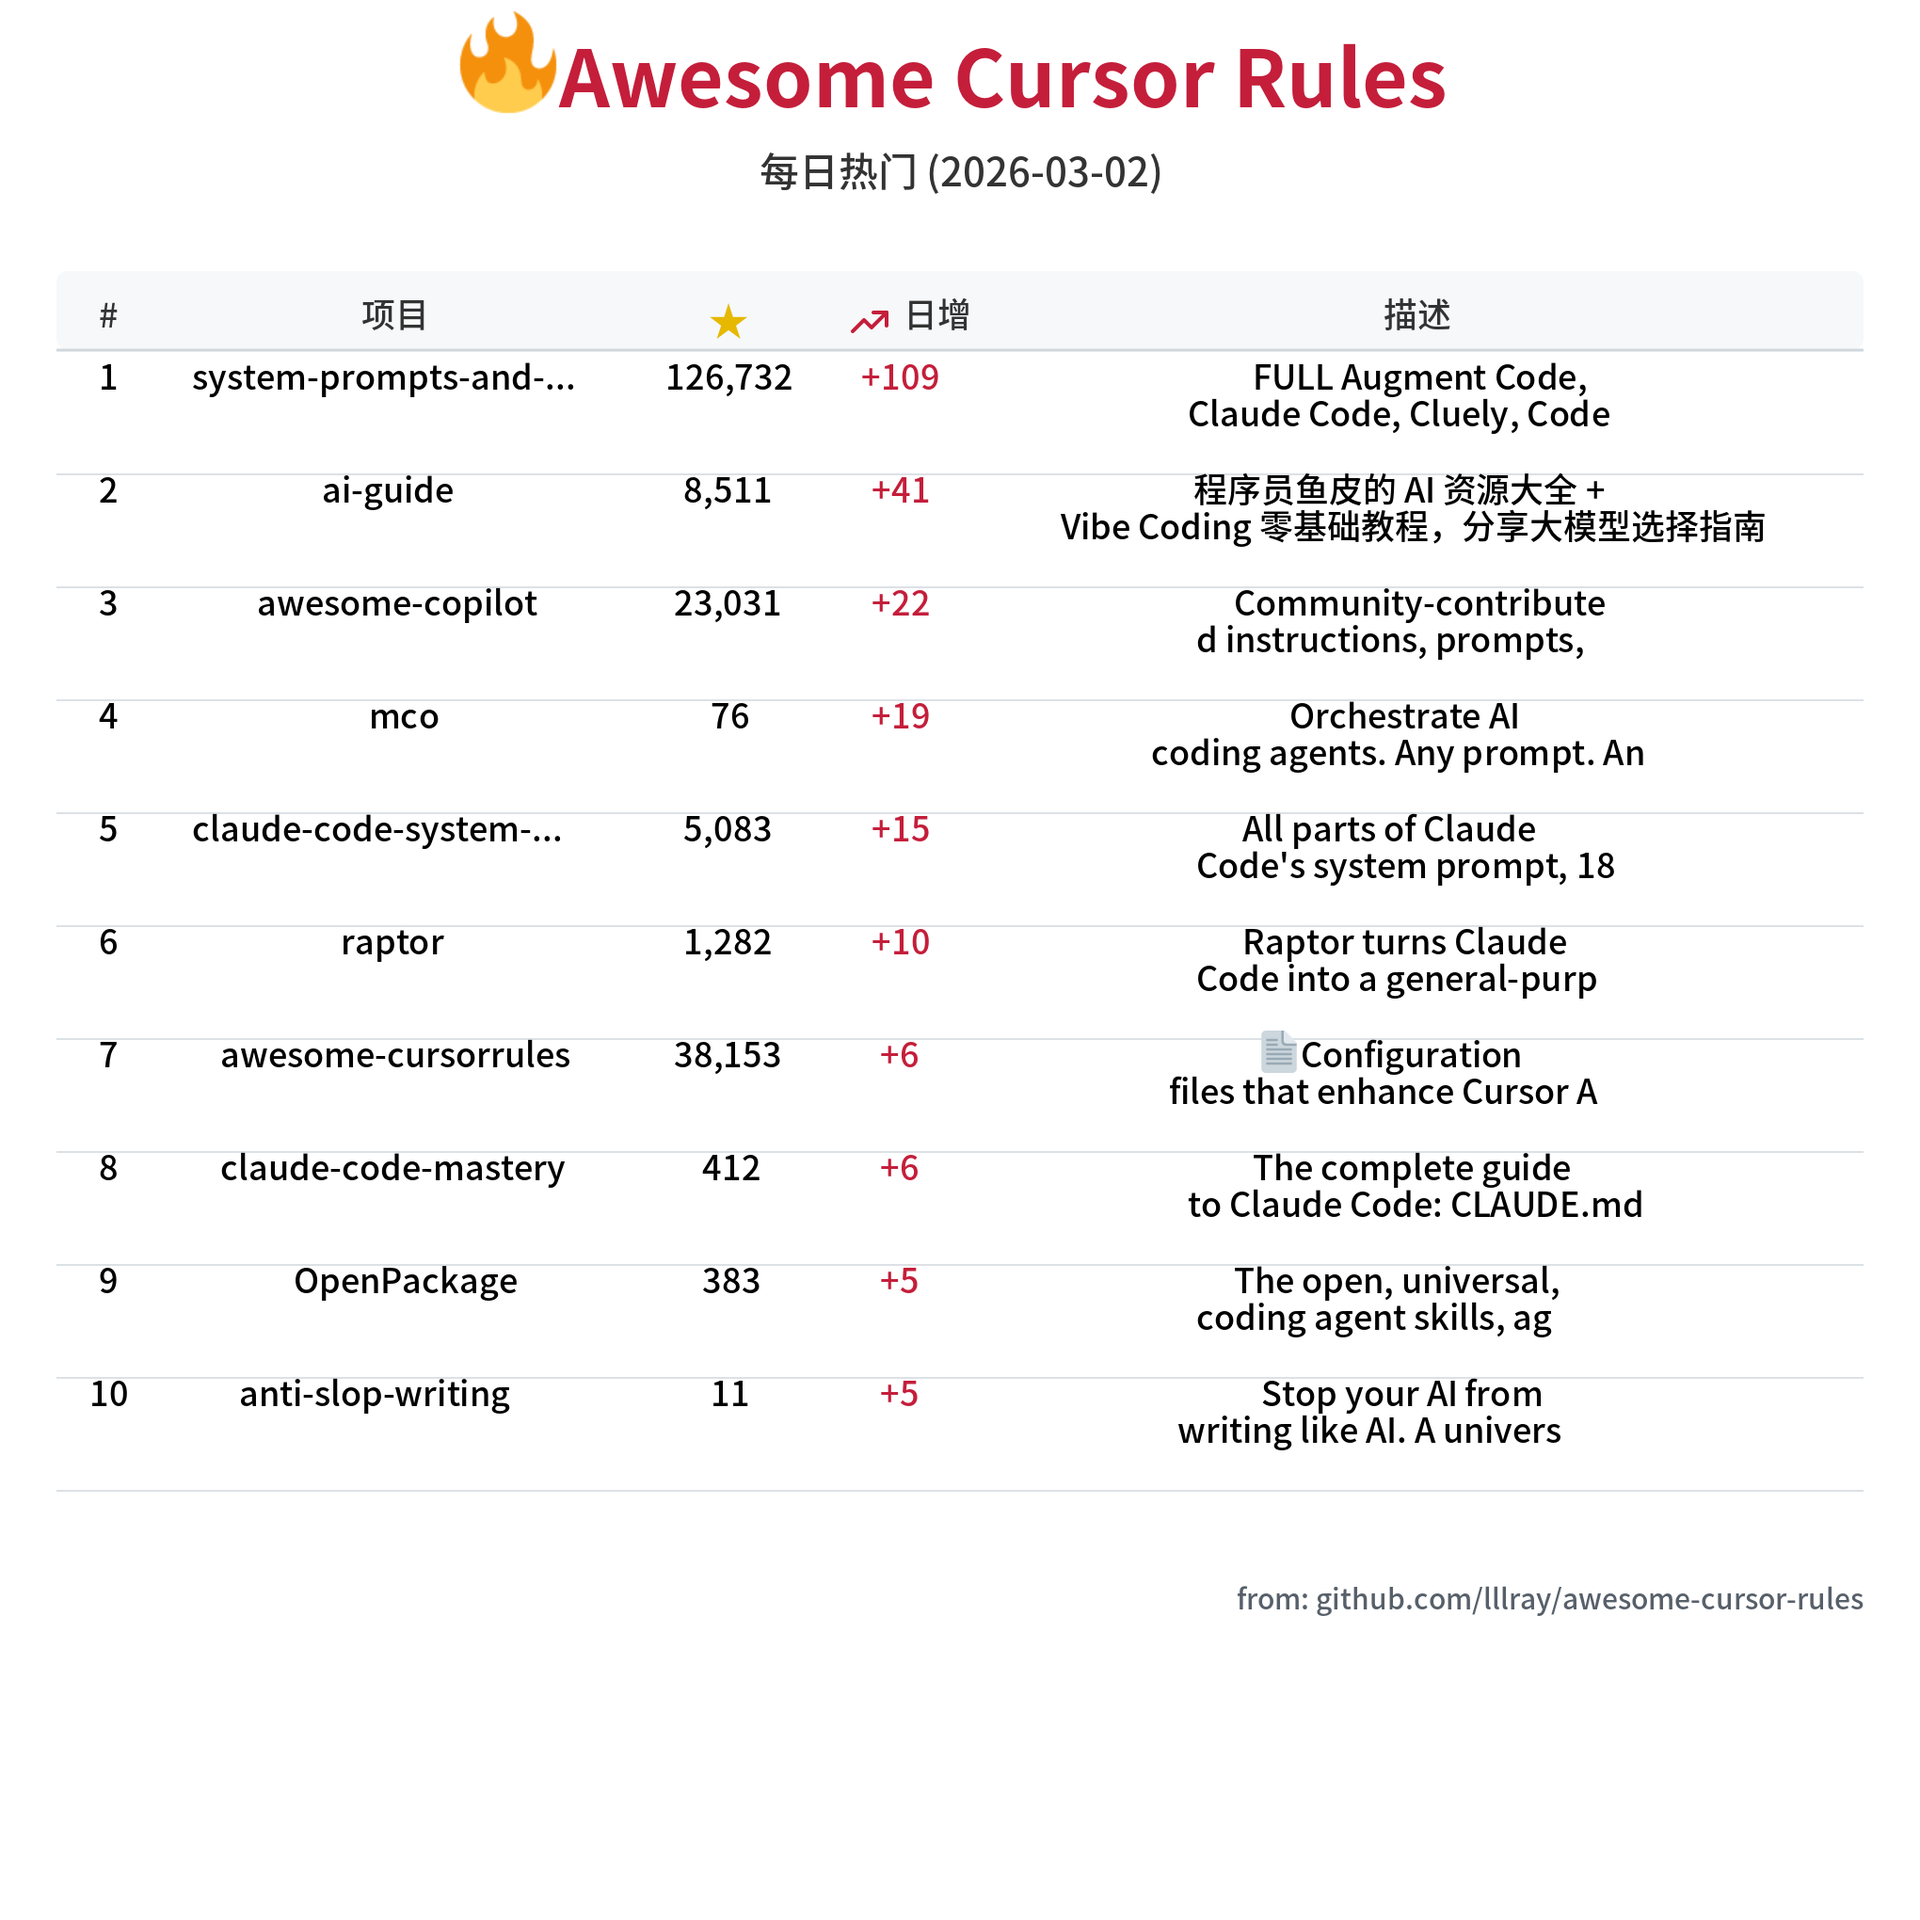
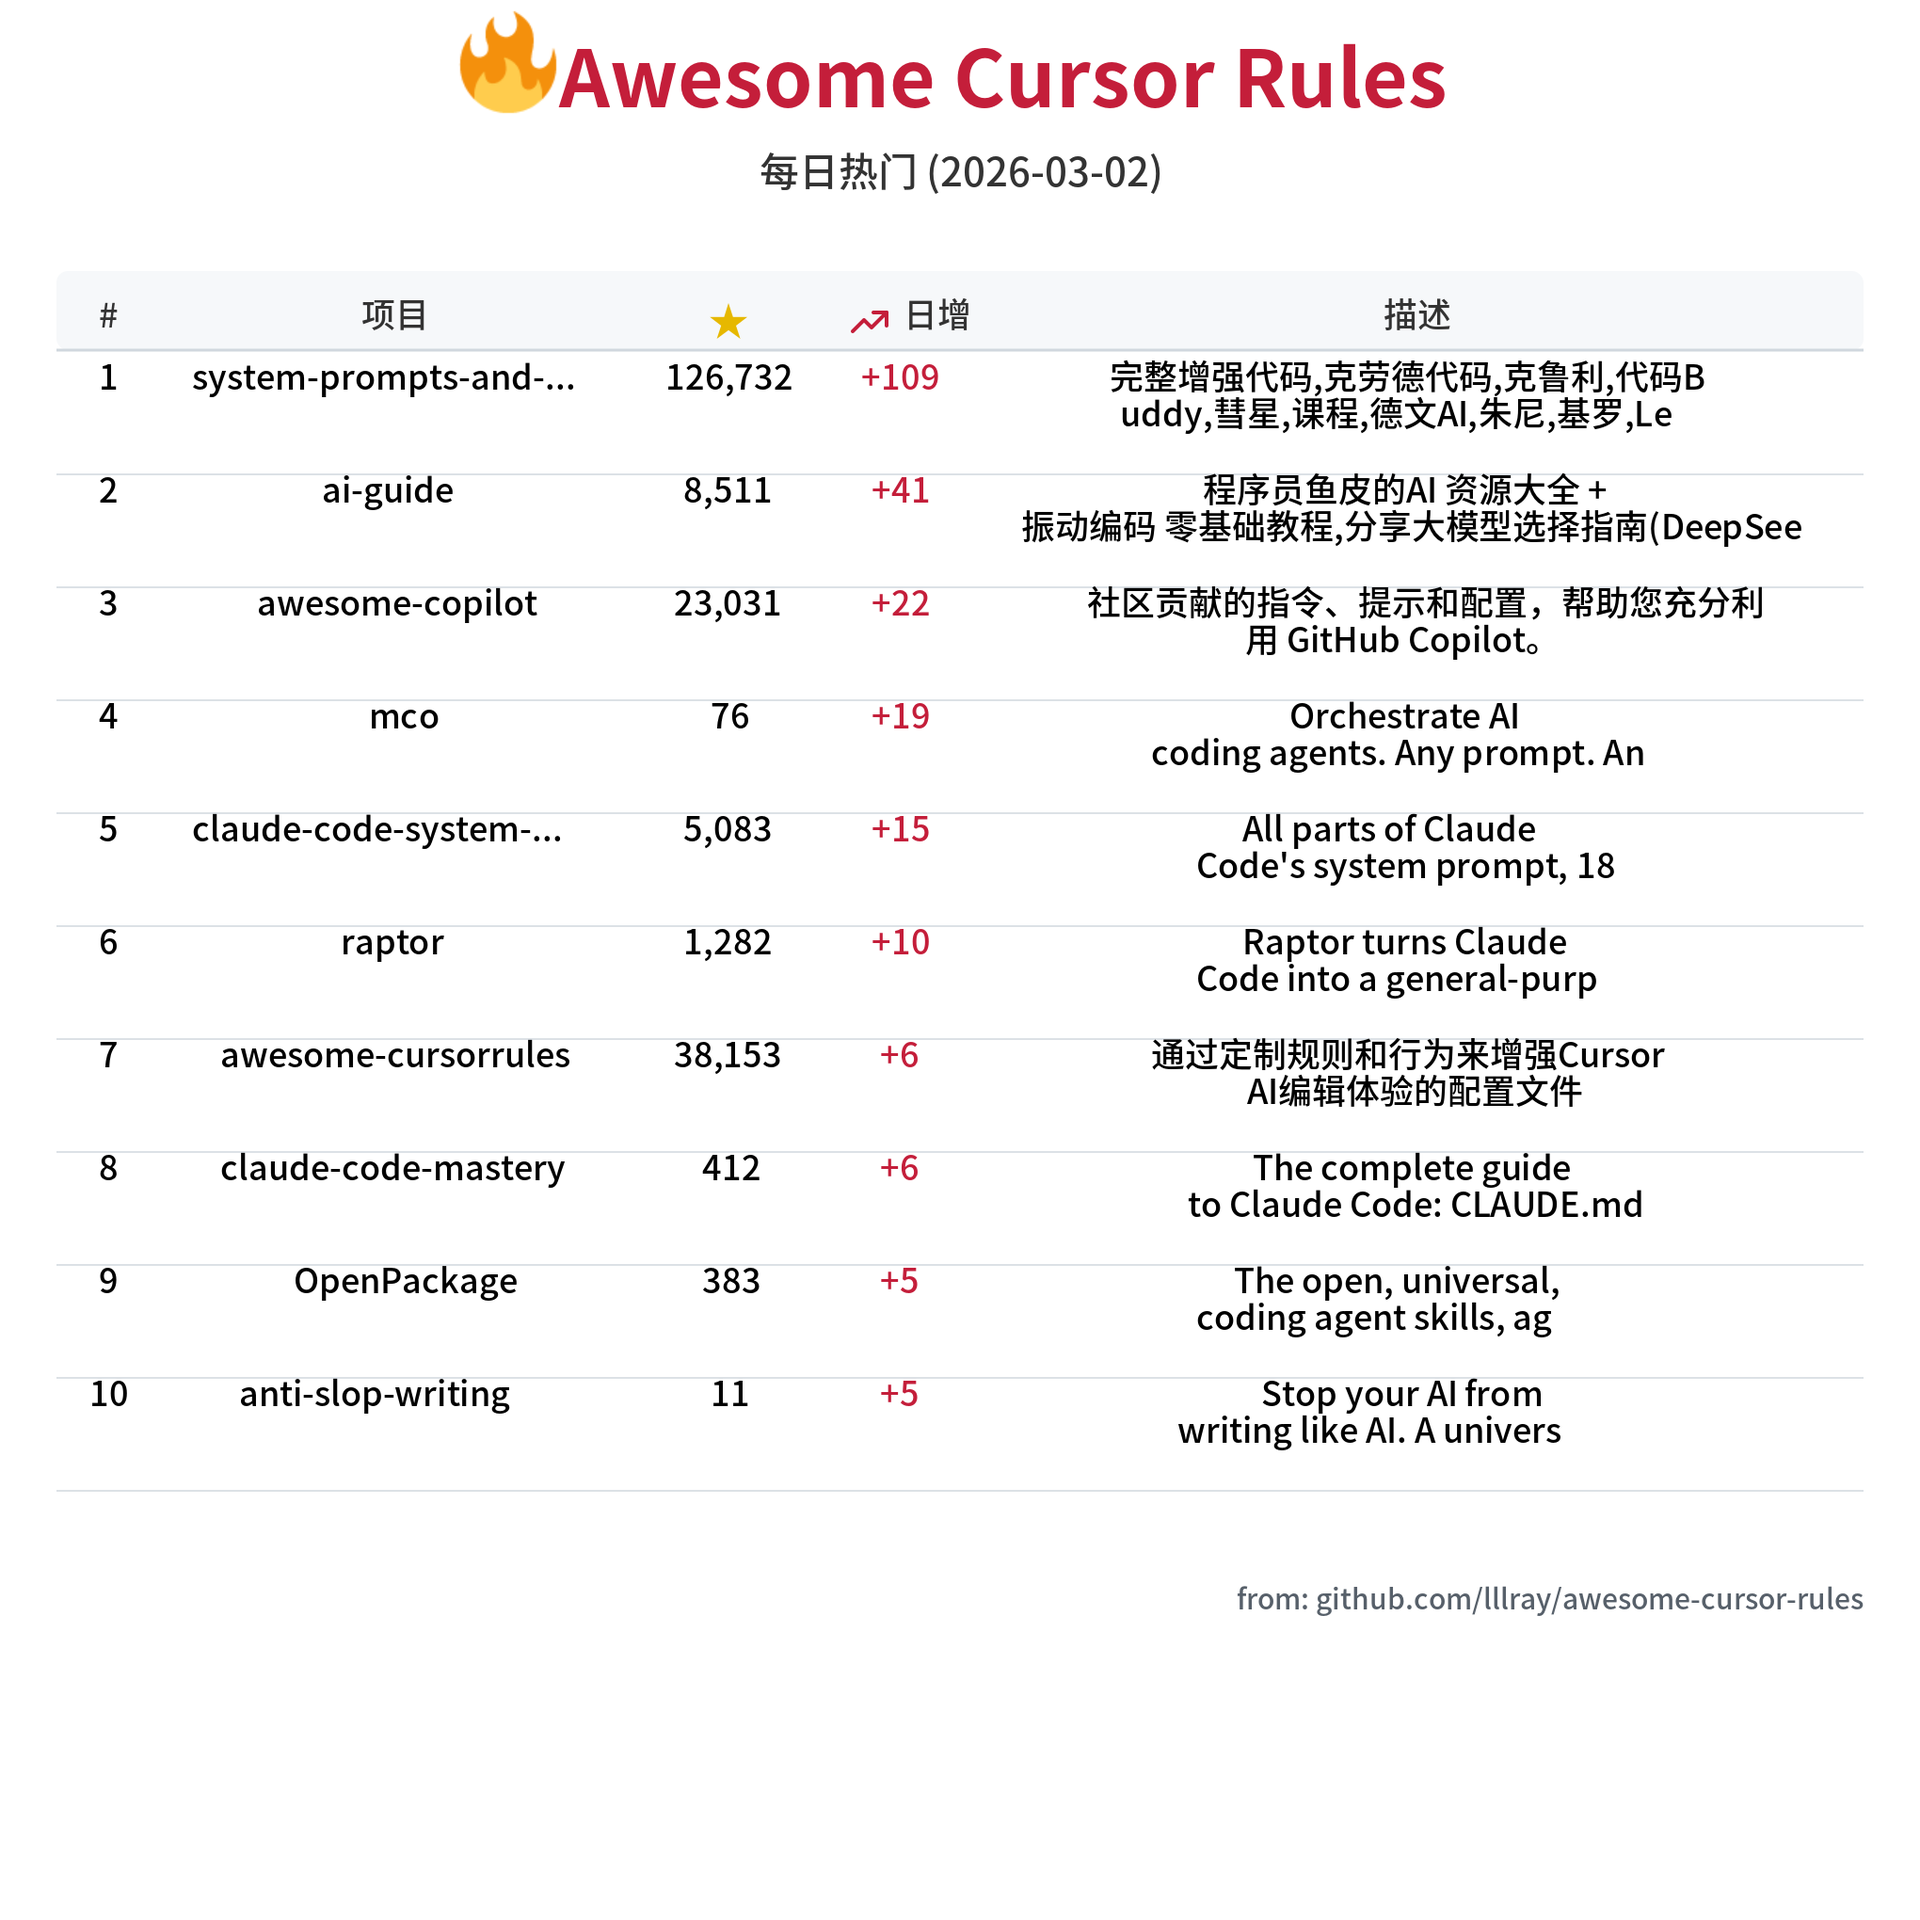
docs: 重新翻译每日热门描述 - 2026-03-02 20:57:07

Changed region(s): [[0.525, 0.1853, 0.9265, 0.3397], [0.5868, 0.525, 0.8647, 0.5868]]

diff --git a/README_ZH.md b/README_ZH.md
@@ -34,17 +34,17 @@
 
 | # | 项目 | ⭐ | 📈 日增 | 描述 |
 |:-:|------|---:|-------:|------|
-| 1 | [x1xhlol/system-prompts-and-models-of-ai-tools](https://github.com/x1xhlol/system-prompts-and-models-of-ai-tools) | 126,732 | +109 | FULL Augment Code, Claude Code, Cluely, CodeBuddy,... |
-| 2 | [liyupi/ai-guide](https://github.com/liyupi/ai-guide) | 8,511 | +41 | 程序员鱼皮的 AI 资源大全 + Vibe Coding 零基础教程，分享大模型选择指南（DeepS... |
-| 3 | [github/awesome-copilot](https://github.com/github/awesome-copilot) | 23,031 | +22 | Community-contributed instructions, prompts, and c... |
+| 1 | [x1xhlol/system-prompts-and-models-of-ai-tools](https://github.com/x1xhlol/system-prompts-and-models-of-ai-tools) | 126,732 | +109 | 完整增强代码,克劳德代码,克鲁利,代码Buddy,彗星,课程,德文AI,朱尼,基罗,Leap.new... |
+| 2 | [liyupi/ai-guide](https://github.com/liyupi/ai-guide) | 8,511 | +41 | 程序员鱼皮的AI 资源大全 + 振动编码 零基础教程,分享大模型选择指南(DeepSeek / GP... |
+| 3 | [github/awesome-copilot](https://github.com/github/awesome-copilot) | 23,031 | +22 | 社区贡献的指令、提示和配置，帮助您充分利用 GitHub Copilot。 |
 | 4 | [mco-org/mco](https://github.com/mco-org/mco) | 76 | +19 | Orchestrate AI coding agents. Any prompt. Any agen... |
 | 5 | [Piebald-AI/claude-code-system-prompts](https://github.com/Piebald-AI/claude-code-system-prompts) | 5,083 | +15 | All parts of Claude Code's system prompt, 18 built... |
 | 6 | [gadievron/raptor](https://github.com/gadievron/raptor) | 1,282 | +10 | Raptor turns Claude Code into a general-purpose AI... |
-| 7 | [PatrickJS/awesome-cursorrules](https://github.com/PatrickJS/awesome-cursorrules) | 38,153 | +6 | 📄  Configuration files that enhance Cursor AI edit... |
+| 7 | [PatrickJS/awesome-cursorrules](https://github.com/PatrickJS/awesome-cursorrules) | 38,153 | +6 |  通过定制规则和行为来增强Cursor AI编辑体验的配置文件 |
 | 8 | [TheDecipherist/claude-code-mastery](https://github.com/TheDecipherist/claude-code-mastery) | 412 | +6 | The complete guide to Claude Code: CLAUDE.md, hook... |
 | 9 | [enulus/OpenPackage](https://github.com/enulus/OpenPackage) | 383 | +5 | The open, universal, coding agent skills, agents, ... |
 | 10 | [adenaufal/anti-slop-writing](https://github.com/adenaufal/anti-slop-writing) | 11 | +5 | Stop your AI from writing like AI. A universal sys... |
-| 11 | [refly-ai/refly](https://github.com/refly-ai/refly) | 6,863 | +4 | The first open-source agent skills builder. Define... |
+| 11 | [refly-ai/refly](https://github.com/refly-ai/refly) | 6,863 | +4 | 建立Clawdbot · API 对于可爱的 · 机器人对于 Slack & Lark/Feishu... |
 | 12 | [Piebald-AI/tweakcc](https://github.com/Piebald-AI/tweakcc) | 1,195 | +4 | Customize Claude Code's system prompts, create cus... |
 | 13 | [alirezarezvani/ClaudeForge](https://github.com/alirezarezvani/ClaudeForge) | 266 | +4 | A CLAUDE.md Generator and Maintenance tool for for... |
 | 14 | [GCWing/BitFun](https://github.com/GCWing/BitFun) | 265 | +4 | BitFun is an Agentic Development Environment (ADE，... |
@@ -52,7 +52,7 @@
 | 16 | [prompt-security/clawsec](https://github.com/prompt-security/clawsec) | 546 | +3 | A complete security skill suite for OpenClaw's and... |
 | 17 | [arpitg1304/robotics-agent-skills](https://github.com/arpitg1304/robotics-agent-skills) | 105 | +3 | Agent skills that make AI coding assistants write ... |
 | 18 | [ThaddaeusSandidge/BorisChernyClaudeMarkdown](https://github.com/ThaddaeusSandidge/BorisChernyClaudeMarkdown) | 64 | +3 | A template CLAUDE.md file implementing Agentic Con... |
-| 19 | [wasp-lang/open-saas](https://github.com/wasp-lang/open-saas) | 13,457 | +2 | A 100% free modern JS SaaS boilerplate (React, Nod... |
+| 19 | [wasp-lang/open-saas](https://github.com/wasp-lang/open-saas) | 13,457 | +2 | 现代JS SaaS炉板 (React, NodeJS, Prisma). 功能齐全:作者 (电子邮件... |
 | 20 | [microsoft/skills](https://github.com/microsoft/skills) | 1,556 | +2 | Skills, MCP servers, Custom Agents, Agents.md for ... |
 
 ---
@@ -465,4 +465,4 @@ git clone https://github.com/lllray/awesome-cursor-rules.git
 
 ---
 
-<p align="center"><sub>✨ 自动整理 · 2026-03-02 20:49:10</sub></p>
+<p align="center"><sub>✨ 自动整理 · 2026-03-02 20:57:07</sub></p>

diff --git a/README.md b/README.md
@@ -35,7 +35,7 @@
 | # | Project | ⭐ | 📈 Gain | Description |
 |:-:|---------|---:|-------:|-------------|
 | 1 | [x1xhlol/system-prompts-and-models-of-ai-tools](https://github.com/x1xhlol/system-prompts-and-models-of-ai-tools) | 126,732 | +109 | FULL Augment Code, Claude Code, Cluely, CodeBuddy, Comet, Cu |
-| 2 | [liyupi/ai-guide](https://github.com/liyupi/ai-guide) | 8,511 | +41 | 程序员鱼皮的 AI 资源大全 + Vibe Coding 零基础教程，分享大模型选择指南（DeepSeek / GPT  |
+| 2 | [liyupi/ai-guide](https://github.com/liyupi/ai-guide) | 8,511 | +41 | Fish Skin's AI Resource Collection + Vibe Coding Beginner Tu |
 | 3 | [github/awesome-copilot](https://github.com/github/awesome-copilot) | 23,031 | +22 | Community-contributed instructions, prompts, and configurati |
 | 4 | [mco-org/mco](https://github.com/mco-org/mco) | 76 | +19 | Orchestrate AI coding agents. Any prompt. Any agent. Any IDE |
 | 5 | [Piebald-AI/claude-code-system-prompts](https://github.com/Piebald-AI/claude-code-system-prompts) | 5,083 | +15 | All parts of Claude Code's system prompt, 18 builtin tool de |
@@ -457,4 +457,4 @@ Pull requests welcome!
 
 ---
 
-<p align="center"><sub>✨ Auto-curated · 2026-03-02 20:49:10</sub></p>
+<p align="center"><sub>✨ Auto-curated · 2026-03-02 20:57:07</sub></p>
